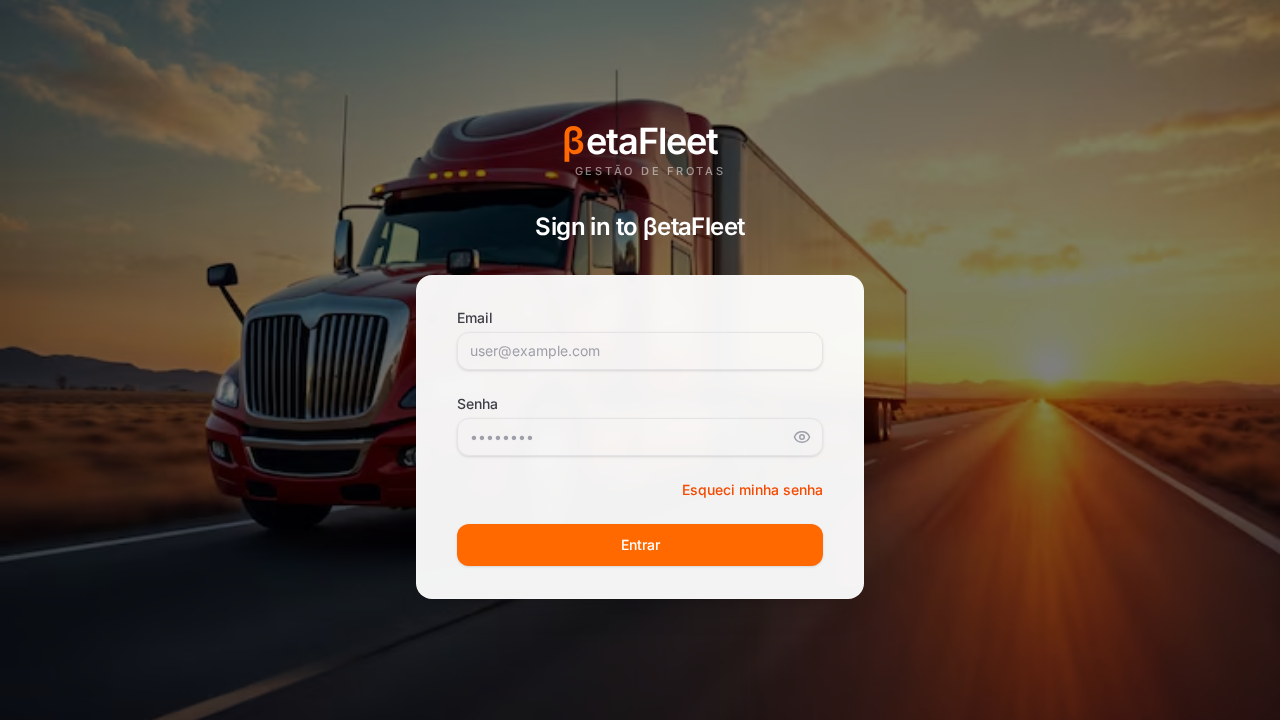
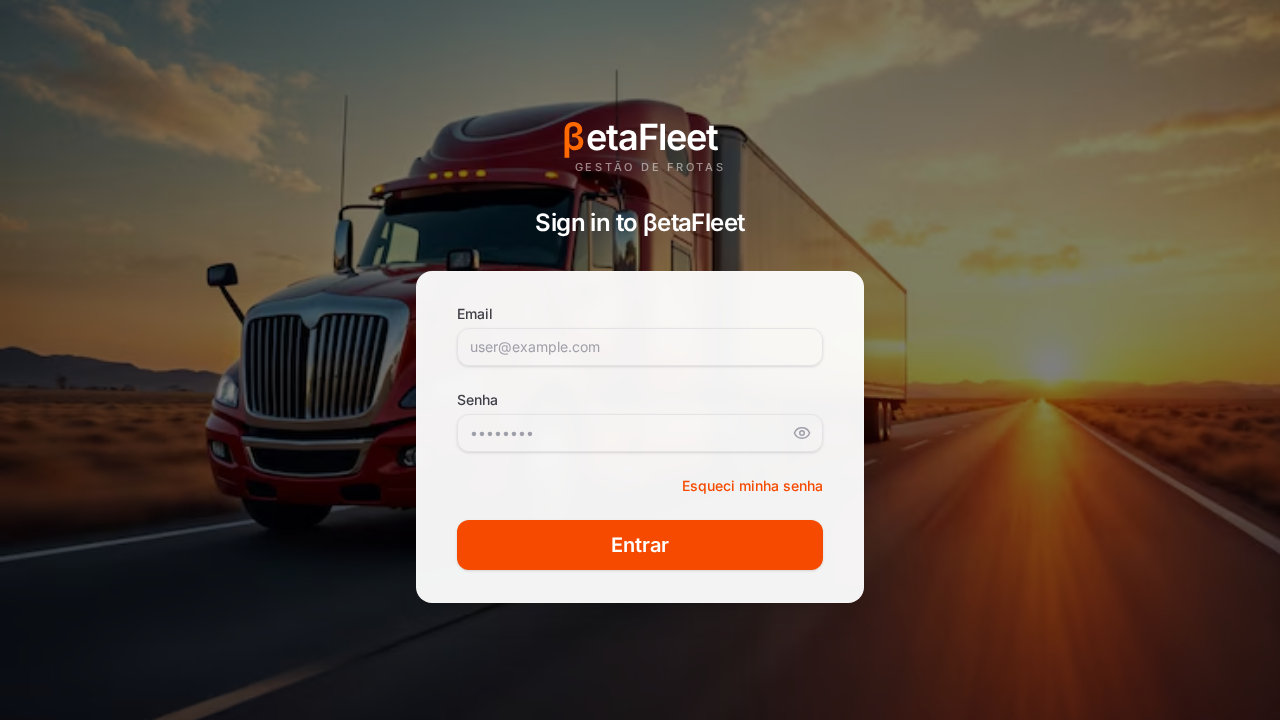
fix(e2e): estabiliza baseline (a11y, auditor, dashboard-costs)
- a11y: aria-label no seletor do Topbar; contraste na sidebar (blue-300), botao de login (large text + bg-orange-600), abas ativas (text-orange-700), badge sem opacity-70 e empty-state 'Sem motorista' (zinc-500)
- auditor: embed drivers(profiles!profile_id) desambiguar o 2o FK de soft-delete (inactivated_by) que quebrava a query auditorVehicles e esvaziava o dropdown
- dashboard-costs: seed deterministico via upsertByKey para DEV-OS-001 (approved_cost>0, entry_date no mes corrente); repair do seed removendo can_delete_* (colunas dropadas em 20260701000003)
- visual: baseline do login atualizado para o botao conforme WCAG (Opcao A)

diff --git a/src/components/Sidebar.tsx b/src/components/Sidebar.tsx
@@ -121,7 +121,7 @@ export default function Sidebar({ isOpen, onClose }: SidebarProps) {
 
         {user?.role === 'Admin Master' && (
           <div className="border-t border-blue-800 px-3 py-4">
-            <p className="mb-1 px-3 text-xs font-semibold tracking-wider text-blue-400 uppercase">Admin</p>
+            <p className="mb-1 px-3 text-xs font-semibold tracking-wider text-blue-300 uppercase">Admin</p>
             <NavLink
               to="/admin/clients"
               onClick={onClose}

diff --git a/src/pages/Cadastros.tsx b/src/pages/Cadastros.tsx
@@ -71,7 +71,7 @@ export default function Cadastros() {
               className={({ isActive }) =>
                 cn(
                   isActive
-                    ? 'border-orange-500 font-medium text-orange-600'
+                    ? 'border-orange-500 font-medium text-orange-700'
                     : 'border-transparent text-zinc-500 hover:border-zinc-300 hover:text-zinc-700',
                   'flex items-center border-b-2 px-4 py-3 text-sm whitespace-nowrap transition-colors'
                 )

diff --git a/src/pages/Dashboard.tsx b/src/pages/Dashboard.tsx
@@ -879,7 +879,7 @@ export default function Dashboard() {
                 className={cn(
                   'flex items-center gap-2 border-b-2 px-4 py-3 text-sm transition-colors',
                   isActive
-                    ? 'border-orange-500 font-medium text-orange-600'
+                    ? 'border-orange-500 font-medium text-orange-700'
                     : 'border-transparent text-zinc-500 hover:border-zinc-300 hover:text-zinc-700'
                 )}
               >

diff --git a/src/pages/Login.tsx b/src/pages/Login.tsx
@@ -144,7 +144,7 @@ export default function Login() {
               <button
                 type="submit"
                 disabled={submitting}
-                className="flex w-full justify-center rounded-xl border border-transparent bg-orange-500 px-4 py-2.5 text-sm font-medium text-white shadow-sm transition-colors hover:bg-orange-600 focus:ring-2 focus:ring-orange-500 focus:ring-offset-2 focus:outline-none disabled:cursor-not-allowed disabled:opacity-60"
+                className="flex w-full justify-center rounded-xl border border-transparent bg-orange-600 px-4 py-2.5 text-xl font-bold text-white shadow-sm transition-colors hover:bg-orange-700 focus:ring-2 focus:ring-orange-500 focus:ring-offset-2 focus:outline-none disabled:cursor-not-allowed disabled:opacity-60"
               >
                 {submitting ? 'Entrando...' : 'Entrar'}
               </button>

diff --git a/src/pages/Vehicles.tsx b/src/pages/Vehicles.tsx
@@ -576,7 +576,7 @@ export default function Vehicles() {
                           </div>
                         );
                       })() : (
-                        <span className="text-zinc-400 italic">Sem motorista</span>
+                        <span className="text-zinc-500 italic">Sem motorista</span>
                       )}
                     </td>
                     <td className="px-3 py-4 text-sm whitespace-nowrap text-zinc-500">

diff --git a/src/components/Topbar.tsx b/src/components/Topbar.tsx
@@ -48,6 +48,7 @@ export default function Topbar({ onMenuClick }: TopbarProps) {
             )}
             <div className="relative">
               <select
+                aria-label="Selecionar transportadora"
                 value={currentClient?.id ?? ''}
                 onChange={(e) => switchClient(e.target.value)}
                 className="cursor-pointer appearance-none rounded-lg border border-zinc-200 bg-transparent py-1.5 pr-8 pl-3 text-sm font-medium text-zinc-900 hover:bg-zinc-50 focus:ring-0 focus:outline-none"